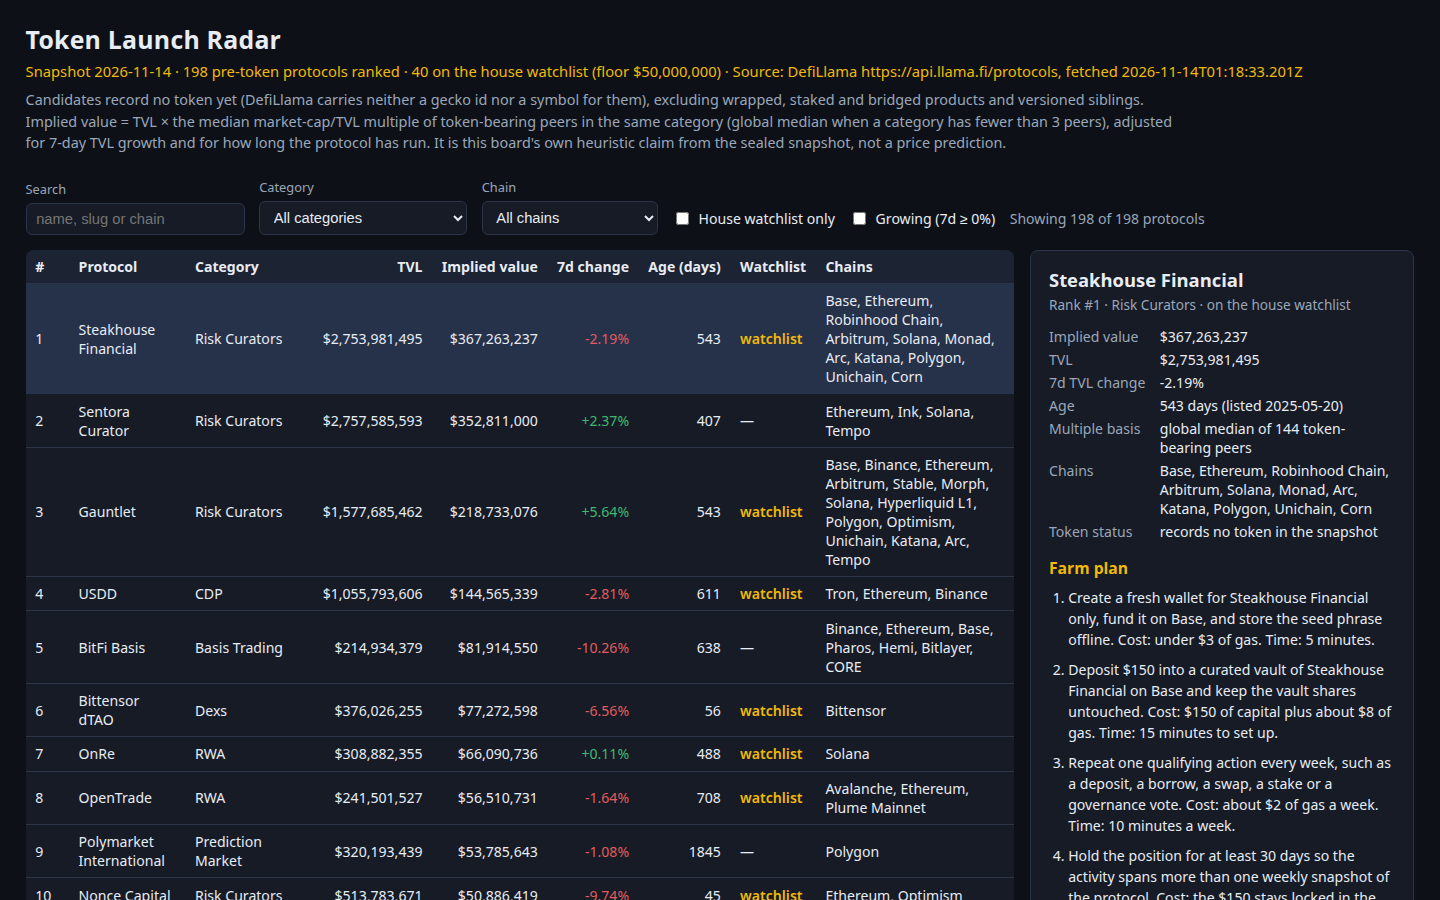
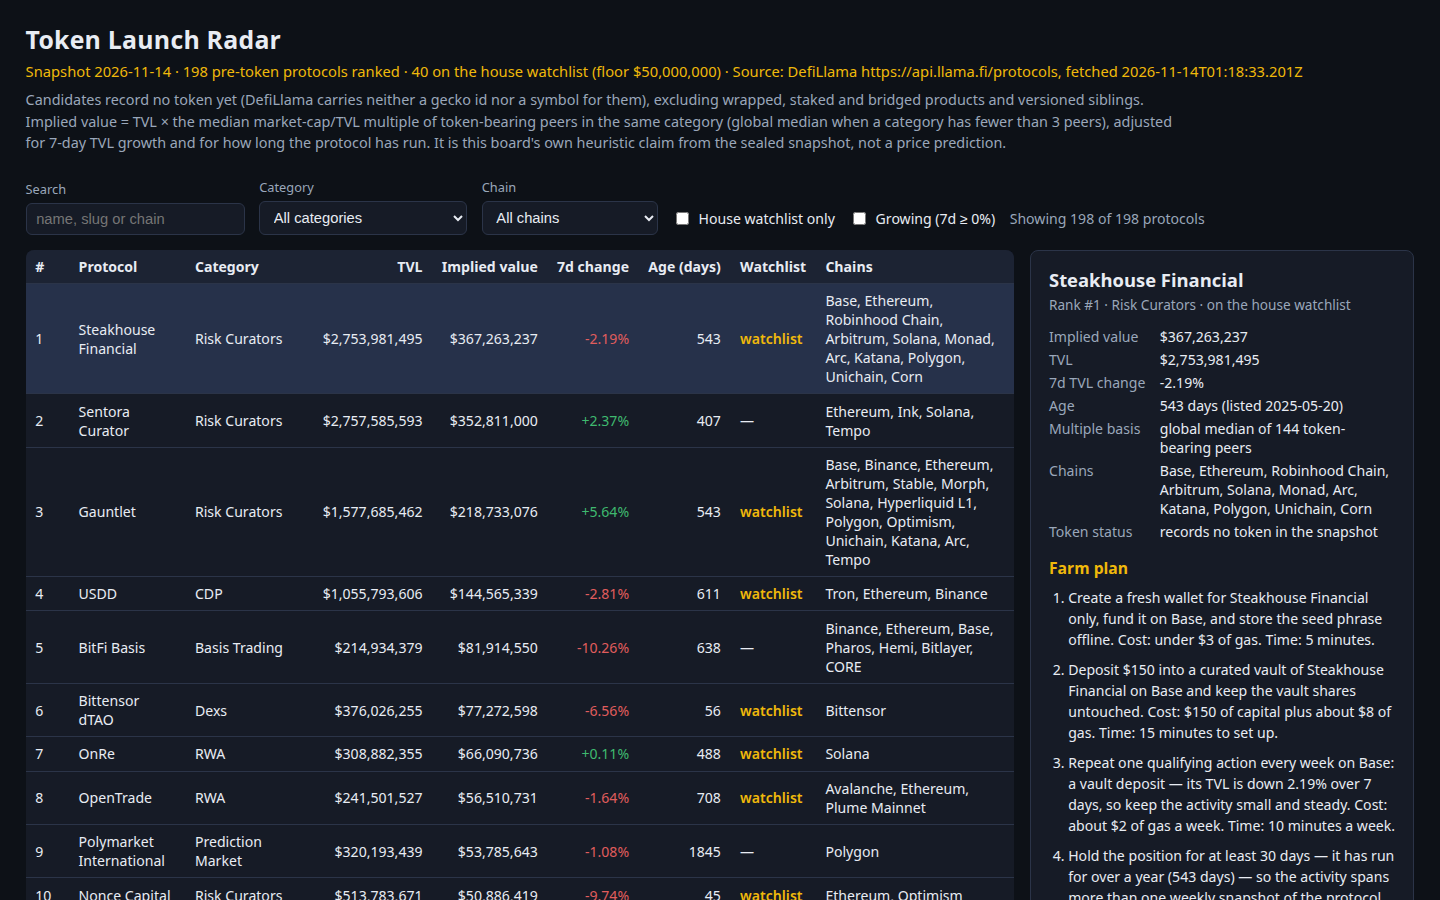
token-radar-01: review fixes — shipped-model tests, per-protocol farm plans, hash write-back

Changed region(s): [[0.7188, 0.84, 0.9688, 1.0]]

diff --git a/lib/model.ts b/lib/model.ts
@@ -193,19 +193,48 @@ function actionFor(p: SnapshotProtocol, capital: number, chain: string): string 
   return `Deposit $${capital} of USDC into ${n} on ${chain} and keep the position open in the farming wallet.`;
 }
 
-/** Six concrete farm steps per protocol, each a single string of 20..600 chars with cost and time. */
+function weeklyActionFor(p: SnapshotProtocol): string {
+  const c = (p.category ?? '').toLowerCase();
+  if (c.includes('lend') || c.includes('cdp') || c.includes('collateral')) return 'a deposit or a borrow';
+  if (c.includes('dex') || c.includes('yield') || c.includes('leveraged')) return 'a swap or a liquidity top-up';
+  if (c.includes('bridge')) return 'a bridge transfer';
+  if (c.includes('staking') || c.includes('restak')) return 'a stake or unstake';
+  if (c.includes('perpetual') || c.includes('derivative') || c.includes('options')) return 'a small trade';
+  if (c.includes('prediction')) return 'a market position';
+  if (c.includes('curator') || c.includes('allocator')) return 'a vault deposit';
+  if (c.includes('stable')) return 'a mint or a deposit';
+  if (c.includes('rwa')) return 'a yield-asset mint';
+  if (c.includes('insurance')) return 'a cover purchase';
+  if (c.includes('nft')) return 'a small trade';
+  return 'a deposit, a swap or a vote';
+}
+
+/** Six concrete farm steps per protocol, each a single string of 20..600 chars with cost and time. Steps 3-6 cite the row's own chain, category, 7-day TVL move, age and capital tier, so plans differ per protocol. */
 export function farmSteps(p: SnapshotProtocol, age: number | null): string[] {
   const chain = chainOf(p);
   const capital = capitalFor(p);
   const hold = holdDaysFor(age);
   const gas = capital >= 150 ? 8 : 4;
+  const growthNote = p.change_7d == null
+    ? 'its 7-day TVL move is not reported'
+    : p.change_7d >= 0
+      ? `its TVL is up ${p.change_7d.toFixed(2)}% over 7 days, so keep the position active`
+      : `its TVL is down ${Math.abs(p.change_7d).toFixed(2)}% over 7 days, so keep the activity small and steady`;
+  const ageReason = age === null
+    ? 'its listing date is not in the snapshot'
+    : age < 180
+      ? `it has only run ${age} days`
+      : age < 365
+        ? `it has run ${age} days`
+        : `it has run for over a year (${age} days)`;
+  const catLabel = p.category ?? 'protocol';
   const steps = [
     `Create a fresh wallet for ${p.name} only, fund it on ${chain}, and store the seed phrase offline. Cost: under $3 of gas. Time: 5 minutes.`,
     `${actionFor(p, capital, chain)} Cost: $${capital} of capital plus about $${gas} of gas. Time: 15 minutes to set up.`,
-    `Repeat one qualifying action every week, such as a deposit, a borrow, a swap, a stake or a governance vote. Cost: about $2 of gas a week. Time: 10 minutes a week.`,
-    `Hold the position for at least ${hold} days so the activity spans more than one weekly snapshot of the protocol. Cost: the $${capital} stays locked in the position. Time: ${hold} days.`,
-    `Check the protocol's own points, rewards or governance page weekly and claim only through links that page itself publishes. Cost: nothing to check, never pay a fee to claim. Time: 10 minutes a week.`,
-    `Keep a farm log with the wallet address, every date, amount and transaction hash, so the position can be repeated or unwound safely. Cost: nothing. Time: 5 minutes per entry.`,
+    `Repeat one qualifying action every week on ${chain}: ${weeklyActionFor(p)} — ${growthNote}. Cost: about $2 of gas a week. Time: 10 minutes a week.`,
+    `Hold the position for at least ${hold} days — ${ageReason} — so the activity spans more than one weekly snapshot of the protocol. Cost: the $${capital} stays locked in the position. Time: ${hold} days.`,
+    `Check ${p.name}'s ${catLabel} page weekly for points, rewards or governance and claim only through links that page itself publishes. Cost: nothing to check, never pay a fee to claim. Time: 10 minutes a week.`,
+    `Keep a farm log for the $${capital} position on ${chain} with the wallet address, every date, amount and transaction hash, so the position can be repeated or unwound safely. Cost: nothing. Time: 5 minutes per entry.`,
   ];
   return steps.map((s) => (s.length > 600 ? `${s.slice(0, 596)}...` : s));
 }

diff --git a/dashboard/app.js b/dashboard/app.js
@@ -14,12 +14,32 @@
     var out = {};
     var h = (location.hash || '').replace(/^#/, '');
     h.split('&').forEach(function (part) {
-      var kv = part.split('=');
-      if (kv[0]) out[decodeURIComponent(kv[0])] = decodeURIComponent(kv[1] || '');
+      if (!part) return;
+      var eq = part.indexOf('=');
+      var k = eq >= 0 ? part.slice(0, eq) : part;
+      var v = eq >= 0 ? part.slice(eq + 1) : '';
+      out[decodeURIComponent(k)] = decodeURIComponent(v);
     });
     return out;
   }
   var deepLink = hashParams();
+
+  // Write the current view back to the URL hash so the link in the address
+  // bar always shares exactly what is on screen. replaceState keeps this
+  // out of the browser history (no entry per keystroke or click).
+  function syncHash() {
+    var parts = [];
+    var q = document.getElementById('q').value.trim();
+    if (q) parts.push('q=' + encodeURIComponent(q));
+    if (catSel.value) parts.push('cat=' + encodeURIComponent(catSel.value));
+    if (chainSel.value) parts.push('chain=' + encodeURIComponent(chainSel.value));
+    if (document.getElementById('watch').checked) parts.push('watch=1');
+    if (document.getElementById('growth').checked) parts.push('growth=1');
+    if (selected) parts.push('slug=' + encodeURIComponent(selected));
+    try {
+      history.replaceState(null, '', parts.length ? '#' + parts.join('&') : location.pathname + location.search);
+    } catch (e) { /* file:// or restricted contexts: the view still renders */ }
+  }
 
   function esc(s) {
     return String(s == null ? '' : s).replace(/[&<>"']/g, function (c) {
@@ -89,6 +109,7 @@
         '<td>' + esc((r.chains || []).join(', ')) + '</td></tr>';
     }).join('');
     document.getElementById('rows').innerHTML = html || '<tr><td colspan="9">No protocol matches these filters.</td></tr>';
+    syncHash();
   }
 
   function showDetail(r) {

diff --git a/README.md b/README.md
@@ -21,16 +21,17 @@ heuristic claim from the sealed snapshot, not a price prediction.
 
 ```sh
 mkdir -p out && MAKEFUN_OUTPUT_DIR=out node main.ts --input ../input/snapshot.json
-node --test test/ranking.test.mjs
+node --test test/model.test.mjs
 ```
 
 `main.ts` (Node 22, standard library only) reads the snapshot, writes
 `board.json`, the dashboard's `data.js`, copies `dashboard/` and
 `screenshots/` to the output directory, and writes `dossier.json` with
 `buildDossier` from `vendor/makefun-board.ts`. Two runs produce byte-identical
-outputs. `analyze.mjs` / `src/` are the earlier prototype the entry grew out
-of; the entry itself is `main.ts` + `lib/` + `dashboard/` + `screenshots/` +
-`vendor/`.
+outputs. The entry is `main.ts` + `lib/` + `dashboard/` + `screenshots/` +
+`vendor/`; `test/model.test.mjs` exercises the shipped model in `lib/model.ts`
+(candidate filter, growth/maturity-adjusted ranking, farm-step rules,
+board validation, snapshot parsing) and the shipped dashboard files.
 
 ## License
 
